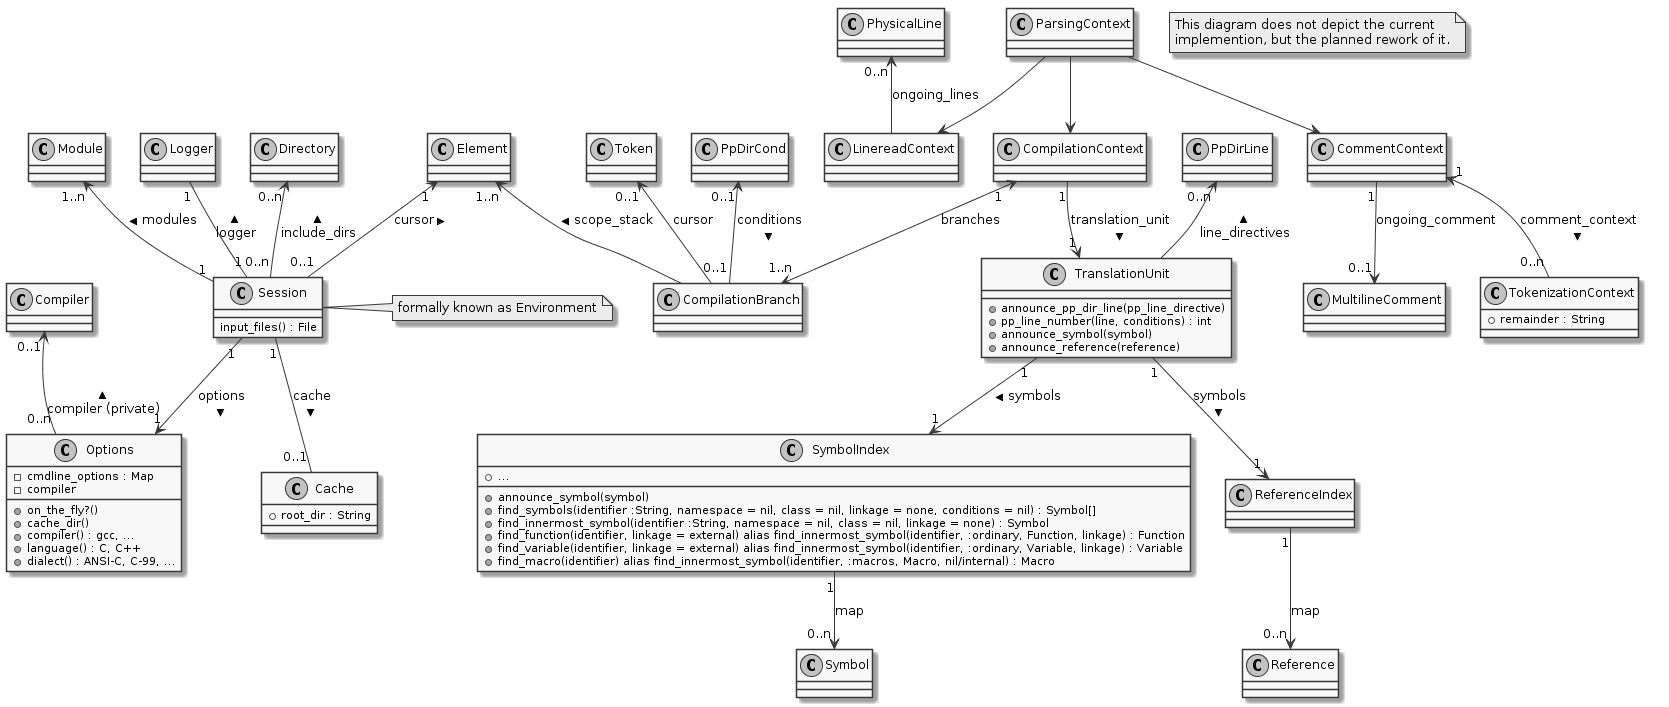
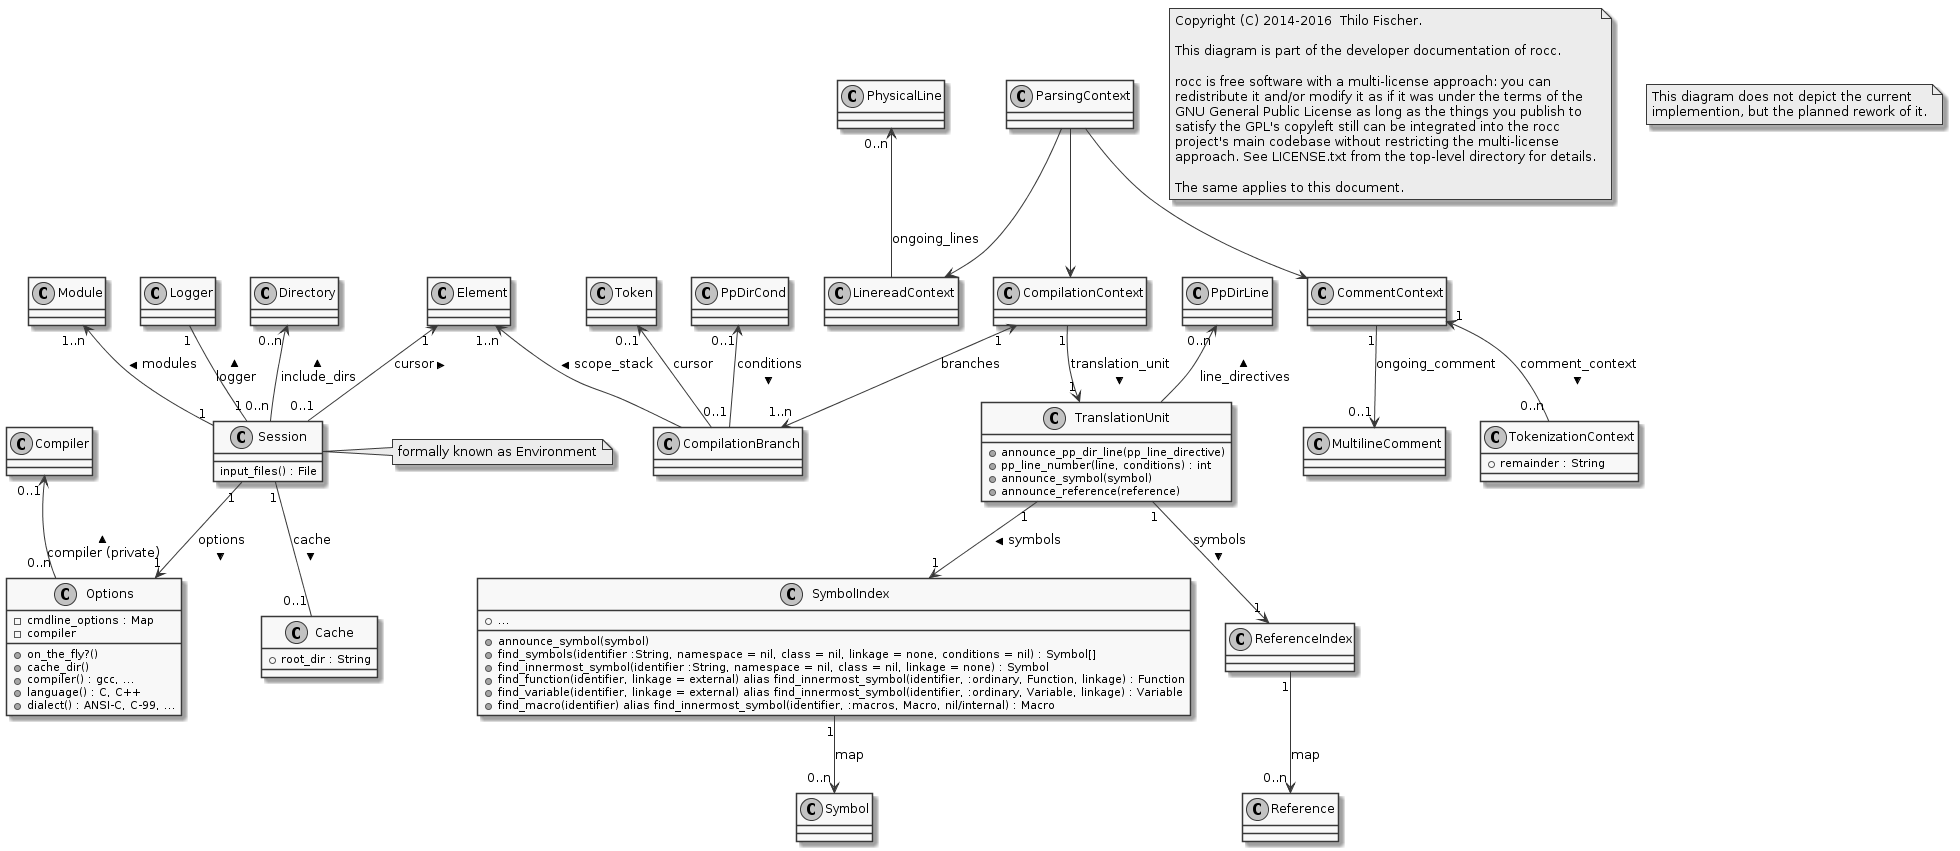
add/update license information, fix typos

diff --git a/lib/rocc.rb b/lib/rocc.rb
@@ -5,9 +5,9 @@
 # This file is part of rocc.
 #
 # rocc is free software with a multi-license approach: you can
-# redistribute it and/or modify as if it was under the terms of the
+# redistribute it and/or modify it as if it was under the terms of the
 # GNU General Public License as long as the things you publish to
-# satisly the GPL's copyleft still can be integrated into the rocc
+# satisfy the GPL's copyleft still can be integrated into the rocc
 # project's main codebase without restricting the multi-license
 # approach. See LICENSE.txt from the top-level directory for details.
 

diff --git a/lib/rocc/code_elements/char_represented/physic_line.rb b/lib/rocc/code_elements/char_represented/physic_line.rb
@@ -5,9 +5,9 @@
 # This file is part of rocc.
 #
 # rocc is free software with a multi-license approach: you can
-# redistribute it and/or modify as if it was under the terms of the
+# redistribute it and/or modify it as if it was under the terms of the
 # GNU General Public License as long as the things you publish to
-# satisly the GPL's copyleft still can be integrated into the rocc
+# satisfy the GPL's copyleft still can be integrated into the rocc
 # project's main codebase without restricting the multi-license
 # approach. See LICENSE.txt from the top-level directory for details.
 

diff --git a/lib/rocc/code_elements/char_represented/tokens/comment.rb b/lib/rocc/code_elements/char_represented/tokens/comment.rb
@@ -5,9 +5,9 @@
 # This file is part of rocc.
 #
 # rocc is free software with a multi-license approach: you can
-# redistribute it and/or modify as if it was under the terms of the
+# redistribute it and/or modify it as if it was under the terms of the
 # GNU General Public License as long as the things you publish to
-# satisly the GPL's copyleft still can be integrated into the rocc
+# satisfy the GPL's copyleft still can be integrated into the rocc
 # project's main codebase without restricting the multi-license
 # approach. See LICENSE.txt from the top-level directory for details.
 

diff --git a/lib/rocc/code_elements/char_represented/tokens/keywords.rb b/lib/rocc/code_elements/char_represented/tokens/keywords.rb
@@ -5,9 +5,9 @@
 # This file is part of rocc.
 #
 # rocc is free software with a multi-license approach: you can
-# redistribute it and/or modify as if it was under the terms of the
+# redistribute it and/or modify it as if it was under the terms of the
 # GNU General Public License as long as the things you publish to
-# satisly the GPL's copyleft still can be integrated into the rocc
+# satisfy the GPL's copyleft still can be integrated into the rocc
 # project's main codebase without restricting the multi-license
 # approach. See LICENSE.txt from the top-level directory for details.
 

diff --git a/lib/rocc/code_elements/char_represented/tokens/misc_tokens.rb b/lib/rocc/code_elements/char_represented/tokens/misc_tokens.rb
@@ -5,9 +5,9 @@
 # This file is part of rocc.
 #
 # rocc is free software with a multi-license approach: you can
-# redistribute it and/or modify as if it was under the terms of the
+# redistribute it and/or modify it as if it was under the terms of the
 # GNU General Public License as long as the things you publish to
-# satisly the GPL's copyleft still can be integrated into the rocc
+# satisfy the GPL's copyleft still can be integrated into the rocc
 # project's main codebase without restricting the multi-license
 # approach. See LICENSE.txt from the top-level directory for details.
 

diff --git a/lib/rocc/code_elements/char_represented/tokens/preprocessor.rb b/lib/rocc/code_elements/char_represented/tokens/preprocessor.rb
@@ -5,9 +5,9 @@
 # This file is part of rocc.
 #
 # rocc is free software with a multi-license approach: you can
-# redistribute it and/or modify as if it was under the terms of the
+# redistribute it and/or modify it as if it was under the terms of the
 # GNU General Public License as long as the things you publish to
-# satisly the GPL's copyleft still can be integrated into the rocc
+# satisfy the GPL's copyleft still can be integrated into the rocc
 # project's main codebase without restricting the multi-license
 # approach. See LICENSE.txt from the top-level directory for details.
 

diff --git a/lib/rocc/code_elements/char_represented/tokens/token.rb b/lib/rocc/code_elements/char_represented/tokens/token.rb
@@ -5,9 +5,9 @@
 # This file is part of rocc.
 #
 # rocc is free software with a multi-license approach: you can
-# redistribute it and/or modify as if it was under the terms of the
+# redistribute it and/or modify it as if it was under the terms of the
 # GNU General Public License as long as the things you publish to
-# satisly the GPL's copyleft still can be integrated into the rocc
+# satisfy the GPL's copyleft still can be integrated into the rocc
 # project's main codebase without restricting the multi-license
 # approach. See LICENSE.txt from the top-level directory for details.
 

diff --git a/lib/rocc/code_elements/char_represented/tokens/tokens.rb b/lib/rocc/code_elements/char_represented/tokens/tokens.rb
@@ -5,9 +5,9 @@
 # This file is part of rocc.
 #
 # rocc is free software with a multi-license approach: you can
-# redistribute it and/or modify as if it was under the terms of the
+# redistribute it and/or modify it as if it was under the terms of the
 # GNU General Public License as long as the things you publish to
-# satisly the GPL's copyleft still can be integrated into the rocc
+# satisfy the GPL's copyleft still can be integrated into the rocc
 # project's main codebase without restricting the multi-license
 # approach. See LICENSE.txt from the top-level directory for details.
 

diff --git a/lib/rocc/code_elements/code_element.rb b/lib/rocc/code_elements/code_element.rb
@@ -5,9 +5,9 @@
 # This file is part of rocc.
 #
 # rocc is free software with a multi-license approach: you can
-# redistribute it and/or modify as if it was under the terms of the
+# redistribute it and/or modify it as if it was under the terms of the
 # GNU General Public License as long as the things you publish to
-# satisly the GPL's copyleft still can be integrated into the rocc
+# satisfy the GPL's copyleft still can be integrated into the rocc
 # project's main codebase without restricting the multi-license
 # approach. See LICENSE.txt from the top-level directory for details.
 

diff --git a/lib/rocc/code_elements/file_represented/base_dir.rb b/lib/rocc/code_elements/file_represented/base_dir.rb
@@ -5,9 +5,9 @@
 # This file is part of rocc.
 #
 # rocc is free software with a multi-license approach: you can
-# redistribute it and/or modify as if it was under the terms of the
+# redistribute it and/or modify it as if it was under the terms of the
 # GNU General Public License as long as the things you publish to
-# satisly the GPL's copyleft still can be integrated into the rocc
+# satisfy the GPL's copyleft still can be integrated into the rocc
 # project's main codebase without restricting the multi-license
 # approach. See LICENSE.txt from the top-level directory for details.
 

diff --git a/lib/rocc/code_elements/file_represented/dir.rb b/lib/rocc/code_elements/file_represented/dir.rb
@@ -5,9 +5,9 @@
 # This file is part of rocc.
 #
 # rocc is free software with a multi-license approach: you can
-# redistribute it and/or modify as if it was under the terms of the
+# redistribute it and/or modify it as if it was under the terms of the
 # GNU General Public License as long as the things you publish to
-# satisly the GPL's copyleft still can be integrated into the rocc
+# satisfy the GPL's copyleft still can be integrated into the rocc
 # project's main codebase without restricting the multi-license
 # approach. See LICENSE.txt from the top-level directory for details.
 

diff --git a/lib/rocc/code_elements/file_represented/file.rb b/lib/rocc/code_elements/file_represented/file.rb
@@ -5,9 +5,9 @@
 # This file is part of rocc.
 #
 # rocc is free software with a multi-license approach: you can
-# redistribute it and/or modify as if it was under the terms of the
+# redistribute it and/or modify it as if it was under the terms of the
 # GNU General Public License as long as the things you publish to
-# satisly the GPL's copyleft still can be integrated into the rocc
+# satisfy the GPL's copyleft still can be integrated into the rocc
 # project's main codebase without restricting the multi-license
 # approach. See LICENSE.txt from the top-level directory for details.
 
